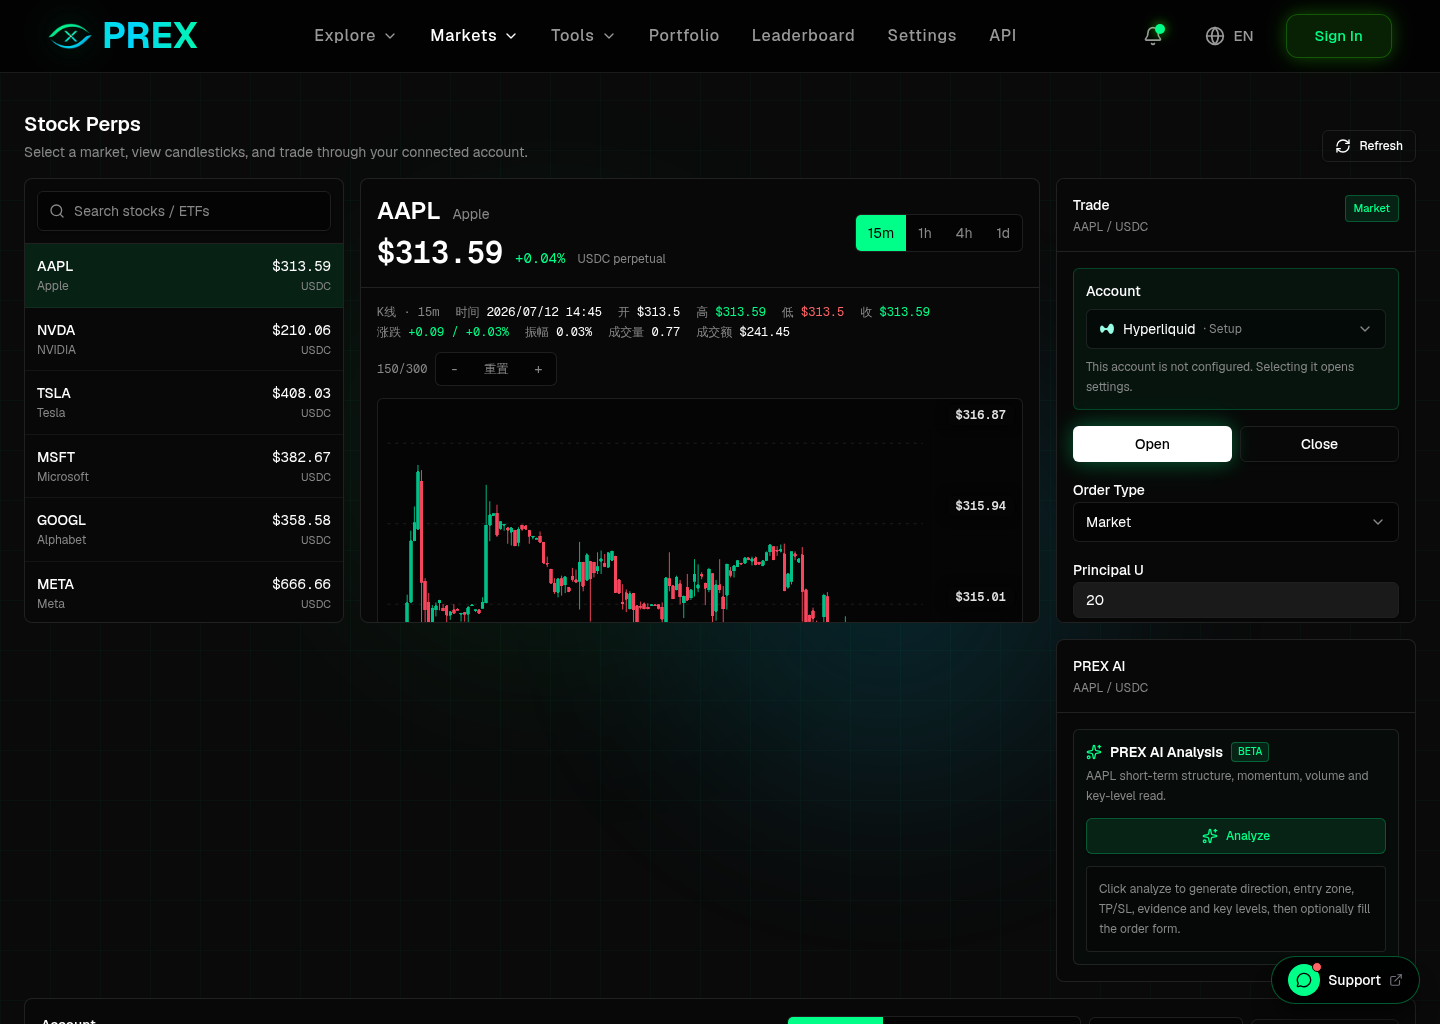
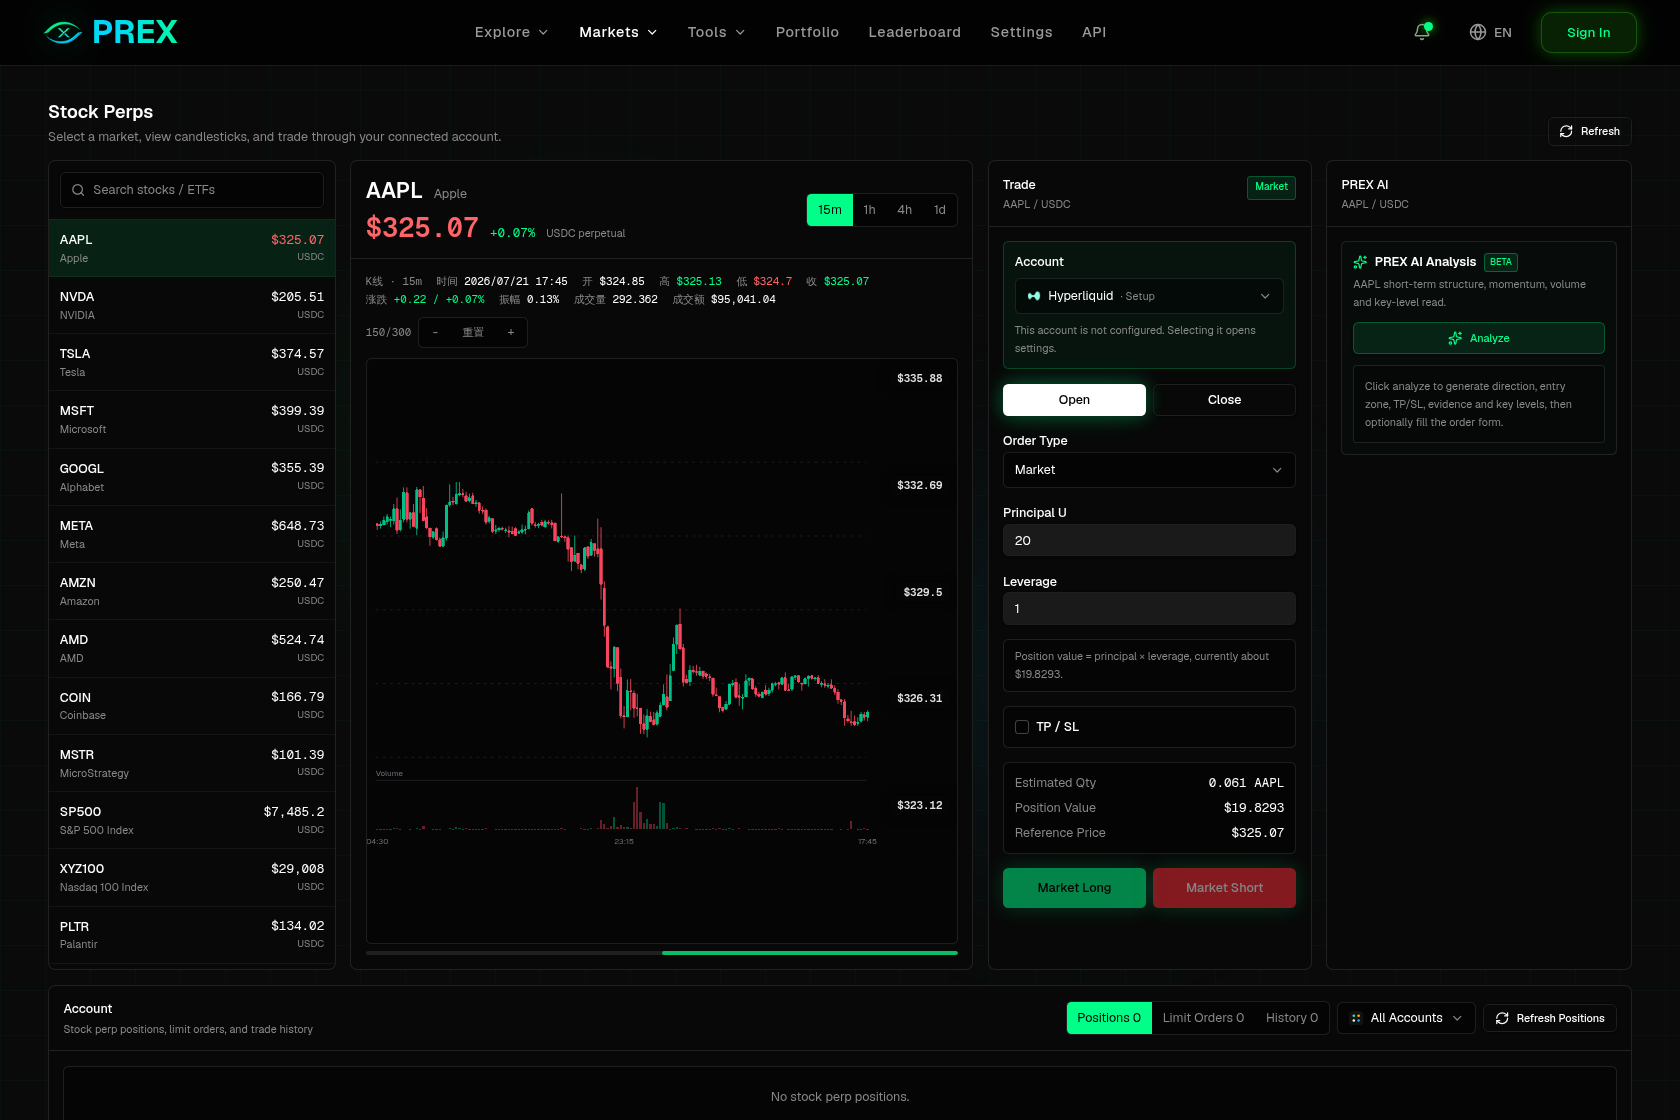
docs: refresh stock perps and backtest screenshots

diff --git a/docs/CHANGELOG.md b/docs/CHANGELOG.md
@@ -2,6 +2,11 @@
 
 This changelog summarizes public product progress. It does not include source code, credentials, private infrastructure, or proprietary strategy logic.
 
+## 2026-07-21
+
+- Updated the US stock perpetuals product screenshot to show the full candlestick, order-entry, and PREX AI workspace.
+- Added a real natural-language backtest result screenshot with return, drawdown, cost, equity curve, data coverage, and recent rebalances.
+
 ## 2026-07-12
 
 - Reframed PREX as an AI trading agent platform for global markets, with crypto, prediction markets, US stock contracts, and strategy execution presented under one workflow.

diff --git a/README.md b/README.md
@@ -37,6 +37,10 @@ PREX helps users discover markets, evaluate strategies, run live execution, and 
 
 ![PREX Strategies](assets/screenshots/strategies.png)
 
+### Natural-Language Backtest Results
+
+![PREX Backtest Results](assets/screenshots/backtest-results.png)
+
 ### Prediction Markets
 
 ![PREX Markets](assets/screenshots/markets.png)